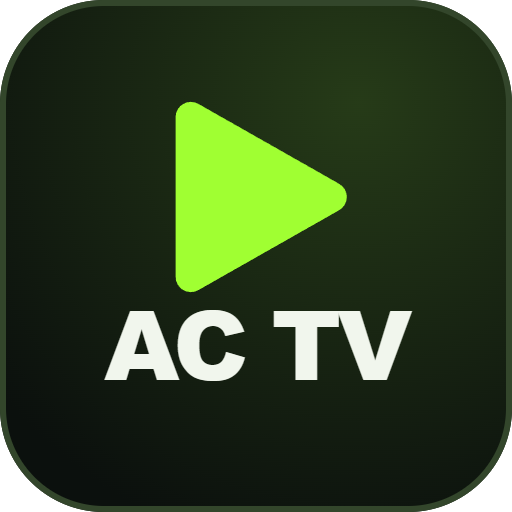
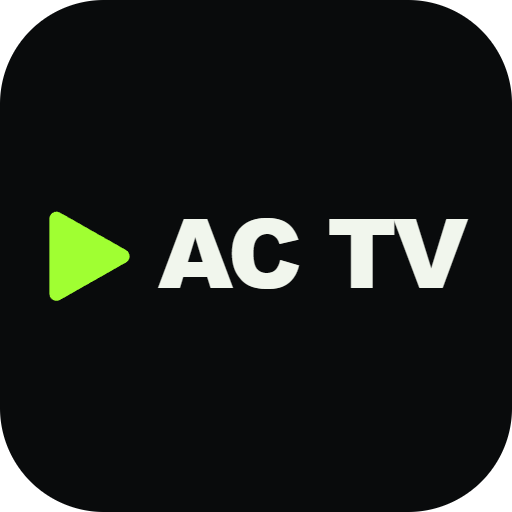
Use the in-app wordmark for the Samsung launcher tile

diff --git a/work/acetv-native-app/index.html b/work/acetv-native-app/index.html
@@ -4,5 +4,5 @@
 <section class="heading"><span class="eyebrow">DALE AL PLAY</span><h1>Todo listo para<br>tu próximo directo.</h1><p>Elige un canal o abre tu enlace favorito.</p></section>
 <section class="menu-grid"><div class="link-panel"><div class="section-top"><span class="section-number">01</span><h2>Añadir un canal</h2></div><p class="section-copy">Pon un nombre y pega tu enlace Ace Stream.</p><label for="channel-name">Nombre del canal</label><input id="channel-name" placeholder="Mi canal" maxlength="120" autocomplete="off"><label for="source">Enlace o código</label><input id="source" placeholder="acestream://…" spellcheck="false" autocomplete="off"><div class="buttons"><button id="play" class="primary"><span aria-hidden="true">▶</span> Reproducir</button><button id="stop" class="quiet">Parar</button></div><div hidden><input id="engine" value="http://127.0.0.1:6878"><button id="check" hidden></button><button id="import-pc" hidden></button></div><button id="save-channel" class="primary">Guardar canal</button><button id="import-m3u" class="quiet">Importar lista M3U</button></div>
 <div class="browse-panel"><button id="explore" class="explore-card"><span class="explore-art" aria-hidden="true"><i class="art-panel one"></i><i class="art-panel two"></i><i class="art-panel three"></i><b>▶</b></span><span class="explore-kicker">ENCUENTRA TU EMISIÓN</span><strong>Explorar canales</strong><span class="explore-caption">Busca por nombre.<br>Elige con el mando.</span><span class="explore-arrow" aria-hidden="true">↗</span></button><button id="setup" class="setup-launch">Guía de inicio</button><p class="browse-hint">Una pantalla grande.<br>Una forma sencilla de elegir.</p></div></section>
-<div class="status-bar"><span class="status-dot"></span><p id="status" role="status" aria-live="polite">Añade tus enlaces y guárdalos en esta TV.</p></div><footer><span>← → ↑ ↓ <b>Mover</b> &nbsp; OK <b>Elegir</b> &nbsp; Atrás <b>Volver</b></span><span>ACE TV <span class="footer-version">0.14.0</span></span></footer></main>
+<div class="status-bar"><span class="status-dot"></span><p id="status" role="status" aria-live="polite">Añade tus enlaces y guárdalos en esta TV.</p></div><footer><span>← → ↑ ↓ <b>Mover</b> &nbsp; OK <b>Elegir</b> &nbsp; Atrás <b>Volver</b></span><span>ACE TV <span class="footer-version">0.14.1</span></span></footer></main>
 <section id="channel-loading" hidden role="status" aria-live="polite"><div class="loading-content"><span class="loading-brand">▶ AC TV</span><div class="loading-spinner" aria-hidden="true"></div><p id="loading-channel"></p><h1 id="loading-title">Abriendo canal…</h1><p id="loading-copy">Enseguida estaremos contigo.</p><div id="loading-actions" hidden><button id="loading-retry">Reintentar</button><button id="loading-alternate" hidden>Probar otro enlace</button><button id="loading-back">Volver a canales</button></div><p class="loading-hint">Atrás · Volver a canales</p></div></section><div id="hud" hidden>Ace TV · OK Pausa/Reanudar · Atrás Detener</div><script src="ace-core.js"></script><script src="m3u-core.js"></script><script src="native-transport.js"></script><script src="app.js"></script><script src="catalog-core.js"></script><script src="favorites-core.js"></script><script src="channel-logos.js"></script><script src="library-core.js"></script><script src="library-ui.js"></script><script src="onboarding.js"></script><script src="catalog.js"></script><script src="m3u-ui.js"></script></body></html>

diff --git a/docs/ASSETS.md b/docs/ASSETS.md
@@ -1,9 +1,9 @@
 # Recursos visuales
 
-- [Logo de la aplicación](../work/acetv-native-app/brand-acetv.svg) y [fuente del icono](brand/icon.svg). El paquete Tizen usa `work/acetv-native-app/icon.png`.
+- [Logo de la aplicación](../work/acetv-native-app/brand-acetv.svg) y [fuente del icono](brand/icon.svg). El icono reutiliza el logo horizontal de la aplicación sobre el fondo oscuro de la interfaz. El paquete Tizen usa `work/acetv-native-app/icon.png`.
 - [Fuente de la portada](brand/cover.html). La pantalla conserva la proporción 16:9 de la captura y se muestra de frente.
 
-Para regenerar el icono y la portada con Chrome instalado, ejecuta `npm ci` y `node work/render-brand.cjs` desde el repositorio.
+Para regenerar el icono y la portada con Chrome instalado, ejecuta `npm ci` y `node work/render-brand.cjs` desde el repositorio. Para regenerar solo el icono, usa `node work/render-brand.cjs --icon-only`.
 
 - `work/acetv-native-app/assets/stadium.png`: fondo generado para el proyecto, sin texto ni logos.
 - `work/acetv-native-app/assets/categories.png`: imágenes genéricas de categorías, sin texto ni logos.

diff --git a/README.md b/README.md
@@ -5,7 +5,7 @@
 <p align="center">Reproductor experimental de enlaces Ace Stream para Samsung Tizen. Una vez instalado, el motor integrado reproduce desde la tele con AVPlay.</p>
 
 <p align="center">
-  <img alt="Versión pública 0.14.0" src="https://img.shields.io/badge/versi%C3%B3n-0.14.0-A0FF32?labelColor=182016">
+  <img alt="Versión pública 0.14.1" src="https://img.shields.io/badge/versi%C3%B3n-0.14.1-A0FF32?labelColor=182016">
   <img alt="Samsung Tizen" src="https://img.shields.io/badge/Samsung-Tizen-91B8DF?labelColor=182016">
   <a href="LICENSE"><img alt="Licencia AGPL 3.0" src="https://img.shields.io/badge/licencia-AGPL--3.0-CCCCCC?labelColor=182016"></a>
 </p>

diff --git a/CHANGELOG.md b/CHANGELOG.md
@@ -1,5 +1,9 @@
 # Historial de versiones
 
+## 0.14.1
+
+- La tarjeta de Samsung usa el mismo logotipo horizontal que aparece dentro de AC TV.
+
 ## 0.14.0
 
 - El motor empieza con el primer emisor verificado y solo vuelve a buscar si falla la conexión. Registra los tiempos de búsqueda, conexión y llegada de vídeo.
